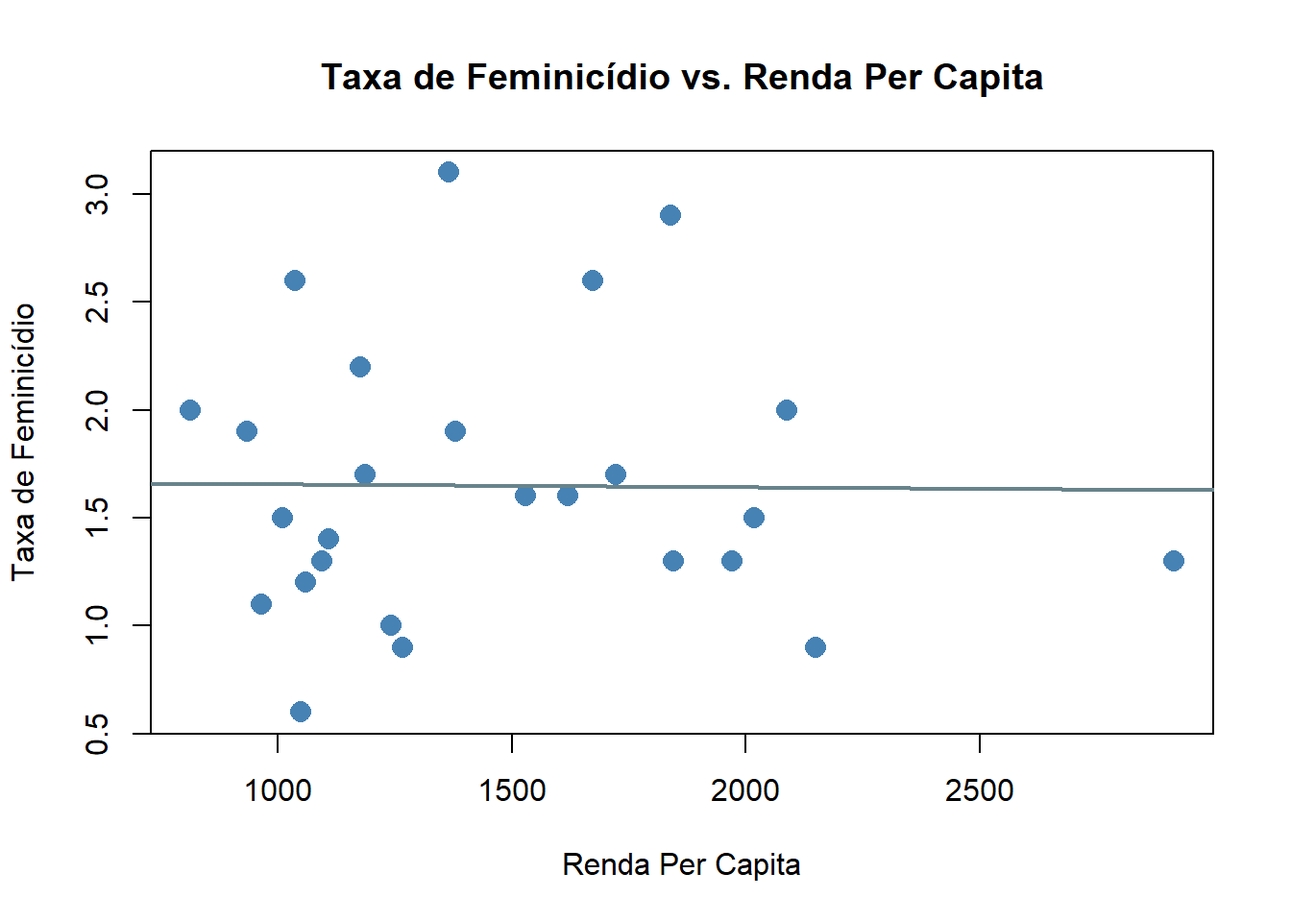
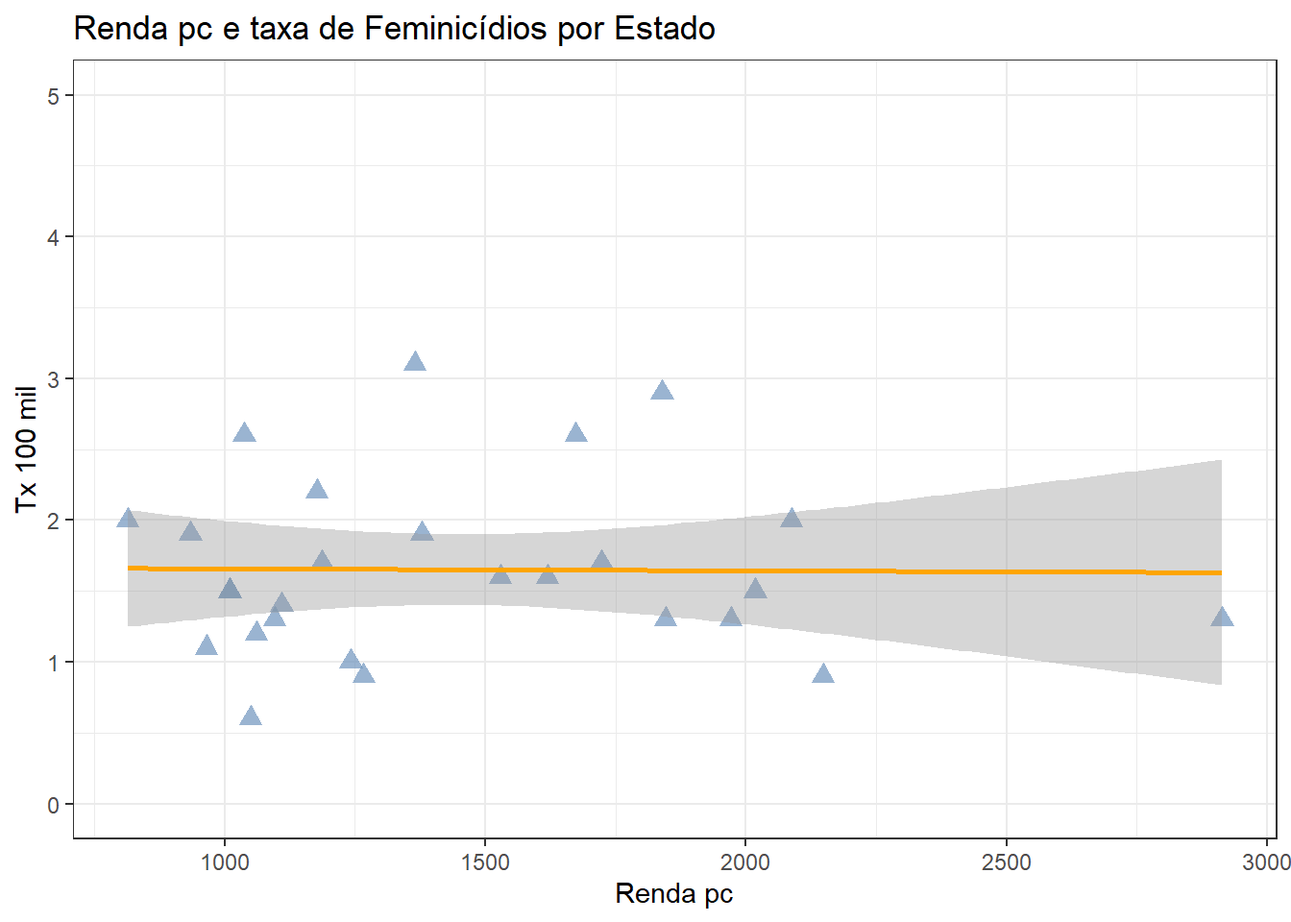
secao descritiva finalizada versao 1

diff --git a/docs/descritiva_v1.html b/docs/descritiva_v1.html
@@ -271,10 +271,7 @@ window.Quarto = {
   </ul></li>
   <li><a href="#medidas-de-posição" id="toc-medidas-de-posição" class="nav-link" data-scroll-target="#medidas-de-posição"><span class="header-section-number">6.3</span> Medidas de Posição:</a></li>
   <li><a href="#medidas-de-variabilidade" id="toc-medidas-de-variabilidade" class="nav-link" data-scroll-target="#medidas-de-variabilidade"><span class="header-section-number">6.4</span> Medidas de Variabilidade</a></li>
-  <li><a href="#medidas-de-associação" id="toc-medidas-de-associação" class="nav-link" data-scroll-target="#medidas-de-associação"><span class="header-section-number">6.5</span> Medidas de Associação</a>
-  <ul class="collapse">
-  <li><a href="#teste-de-hipótese" id="toc-teste-de-hipótese" class="nav-link" data-scroll-target="#teste-de-hipótese"><span class="header-section-number">6.5.1</span> Teste de Hipótese</a></li>
-  </ul></li>
+  <li><a href="#medidas-de-associação" id="toc-medidas-de-associação" class="nav-link" data-scroll-target="#medidas-de-associação"><span class="header-section-number">6.5</span> Medidas de Associação</a></li>
   </ul>
 </nav>
     </div>
@@ -1978,19 +1975,18 @@ Veja a Resposta
 <pre><code>[1] 0.3589068</code></pre>
 </div>
 </div>
+<section id="visualizando-a-associação" class="level4" data-number="6.5.0.1">
+<h4 data-number="6.5.0.1" class="anchored" data-anchor-id="visualizando-a-associação"><span class="header-section-number">6.5.0.1</span> Visualizando a Associação</h4>
 <p><strong>Scatter plot</strong></p>
-<p>O Scatter plot é conhecido como o gráfico de dispersão. Ele relaciona duas ou três variáveis, ou seja, plota <span class="math inline">\(X\)</span> contra <span class="math inline">\(Y\)</span>. Muito utilizado para ver o comportamento conjunto de duas séries. Observe que renda e a taxa de feminicídio não mostram um comportamento conjunto, estão dispersas.</p>
+<p>O Scatter plot é conhecido como o gráfico de dispersão. Ele relaciona duas ou três variáveis, ou seja, plota <span class="math inline">\(X\)</span> contra <span class="math inline">\(Y\)</span>. Muito utilizado para ver o comportamento conjunto de duas séries.</p>
+<p>Como já visto que renda pc e a taxa de feminicídio não mostram um comportamento conjunto:</p>
 <div class="cell">
-<div class="sourceCode cell-code" id="cb72"><pre class="sourceCode r code-with-copy"><code class="sourceCode r"><span id="cb72-1"><a href="#cb72-1" aria-hidden="true" tabindex="-1"></a><span class="do">##Dispersão entre renda per capita e a taxa de feminicidio</span></span>
-<span id="cb72-2"><a href="#cb72-2" aria-hidden="true" tabindex="-1"></a><span class="fu">plot</span>(final_fem_22<span class="sc">$</span>rendapc, final_fem_22<span class="sc">$</span>feminic_tx,</span>
-<span id="cb72-3"><a href="#cb72-3" aria-hidden="true" tabindex="-1"></a>     <span class="at">main =</span> <span class="st">"Taxa de Feminicídio vs. Renda Per Capita"</span>,</span>
-<span id="cb72-4"><a href="#cb72-4" aria-hidden="true" tabindex="-1"></a>     <span class="at">xlab =</span> <span class="st">"Renda Per Capita"</span>,</span>
-<span id="cb72-5"><a href="#cb72-5" aria-hidden="true" tabindex="-1"></a>     <span class="at">ylab =</span> <span class="st">"Taxa de Feminicídio"</span>,</span>
-<span id="cb72-6"><a href="#cb72-6" aria-hidden="true" tabindex="-1"></a>     <span class="at">col =</span> <span class="st">"steelblue"</span>,          <span class="co"># Cor dos pontos</span></span>
-<span id="cb72-7"><a href="#cb72-7" aria-hidden="true" tabindex="-1"></a>     <span class="at">pch =</span> <span class="dv">16</span>,              <span class="co"># Forma dos pontos (círculos sólidos)</span></span>
-<span id="cb72-8"><a href="#cb72-8" aria-hidden="true" tabindex="-1"></a>     <span class="at">cex =</span> <span class="fl">1.5</span>              <span class="co"># Tamanho dos pontos</span></span>
-<span id="cb72-9"><a href="#cb72-9" aria-hidden="true" tabindex="-1"></a>)</span>
-<span id="cb72-10"><a href="#cb72-10" aria-hidden="true" tabindex="-1"></a><span class="fu">abline</span>(<span class="fu">lm</span>(final_fem_22<span class="sc">$</span>feminic_tx<span class="sc">~</span>final_fem_22<span class="sc">$</span>rendapc), <span class="at">col=</span><span class="st">"lightblue4"</span>, <span class="at">lwd=</span><span class="dv">2</span>)</span></code><button title="Copy to Clipboard" class="code-copy-button"><i class="bi"></i></button></pre></div>
+<div class="sourceCode cell-code" id="cb72"><pre class="sourceCode r code-with-copy"><code class="sourceCode r"><span id="cb72-1"><a href="#cb72-1" aria-hidden="true" tabindex="-1"></a><span class="fu">ggplot</span>(<span class="at">data =</span> final_fem_22, <span class="fu">aes</span>(<span class="at">x =</span> rendapc, <span class="at">y =</span> feminic_tx))<span class="sc">+</span></span>
+<span id="cb72-2"><a href="#cb72-2" aria-hidden="true" tabindex="-1"></a><span class="fu">geom_point</span>(<span class="at">color=</span><span class="st">"#6e94bd"</span>, <span class="at">size=</span><span class="dv">3</span>, <span class="at">alpha=</span><span class="fl">0.7</span>,  <span class="at">shape=</span><span class="dv">17</span>) <span class="sc">+</span></span>
+<span id="cb72-3"><a href="#cb72-3" aria-hidden="true" tabindex="-1"></a>  <span class="fu">scale_y_continuous</span>(<span class="at">limits =</span> <span class="fu">c</span>(<span class="dv">0</span>, <span class="dv">5</span>)) <span class="sc">+</span></span>
+<span id="cb72-4"><a href="#cb72-4" aria-hidden="true" tabindex="-1"></a><span class="fu">geom_smooth</span>(<span class="at">method =</span> <span class="st">"lm"</span>, <span class="at">se=</span><span class="cn">TRUE</span> , <span class="at">color=</span><span class="st">"orange"</span>)<span class="sc">+</span></span>
+<span id="cb72-5"><a href="#cb72-5" aria-hidden="true" tabindex="-1"></a><span class="fu">labs</span>(<span class="at">title=</span><span class="st">"Renda pc e taxa de Feminicídios por Estado"</span>, <span class="at">x=</span><span class="st">"Renda pc"</span>, <span class="at">y=</span><span class="st">"Tx 100 mil"</span>)<span class="sc">+</span></span>
+<span id="cb72-6"><a href="#cb72-6" aria-hidden="true" tabindex="-1"></a><span class="fu">theme_bw</span>()</span></code><button title="Copy to Clipboard" class="code-copy-button"><i class="bi"></i></button></pre></div>
 <div class="cell-output-display">
 <div>
 <figure class="figure">
@@ -1999,18 +1995,25 @@ Veja a Resposta
 </div>
 </div>
 </div>
-<p>Ao observar a taxa de homicídio e a taxa de feminicídio, estados com maior taxa de homicídio tendem a ter maior taxa de feminicídio.</p>
+<p>Ao observar o homicídio absoluto e o feminicídio absoluto, estados com maiores números de homicídio tendem a ter maior número de feminicídios.</p>
 <div class="cell">
-<div class="sourceCode cell-code" id="cb73"><pre class="sourceCode r code-with-copy"><code class="sourceCode r"><span id="cb73-1"><a href="#cb73-1" aria-hidden="true" tabindex="-1"></a><span class="do">##Dispersão entre renda per capita e a taxa de feminicidio</span></span>
-<span id="cb73-2"><a href="#cb73-2" aria-hidden="true" tabindex="-1"></a><span class="fu">plot</span>(final_fem_22<span class="sc">$</span>homic_tx, final_fem_22<span class="sc">$</span>feminic_tx,</span>
-<span id="cb73-3"><a href="#cb73-3" aria-hidden="true" tabindex="-1"></a>     <span class="at">main =</span> <span class="st">"Taxa de Feminicídio vs. Taxa de Homicidios"</span>,</span>
-<span id="cb73-4"><a href="#cb73-4" aria-hidden="true" tabindex="-1"></a>     <span class="at">xlab =</span> <span class="st">"Taxa de Homicidio"</span>,</span>
-<span id="cb73-5"><a href="#cb73-5" aria-hidden="true" tabindex="-1"></a>     <span class="at">ylab =</span> <span class="st">"Taxa de Feminicídio"</span>,</span>
-<span id="cb73-6"><a href="#cb73-6" aria-hidden="true" tabindex="-1"></a>     <span class="at">col =</span> <span class="st">"lightgoldenrod3"</span>,          <span class="co"># Cor dos pontos</span></span>
-<span id="cb73-7"><a href="#cb73-7" aria-hidden="true" tabindex="-1"></a>     <span class="at">pch =</span> <span class="dv">16</span>,              <span class="co"># Forma dos pontos (círculos sólidos)</span></span>
-<span id="cb73-8"><a href="#cb73-8" aria-hidden="true" tabindex="-1"></a>     <span class="at">cex =</span> <span class="fl">1.5</span>              <span class="co"># Tamanho dos pontos</span></span>
-<span id="cb73-9"><a href="#cb73-9" aria-hidden="true" tabindex="-1"></a>)</span>
-<span id="cb73-10"><a href="#cb73-10" aria-hidden="true" tabindex="-1"></a><span class="fu">abline</span>(<span class="fu">lm</span>(final_fem_22<span class="sc">$</span>feminic_tx<span class="sc">~</span>final_fem_22<span class="sc">$</span>homic_tx), <span class="at">col=</span><span class="st">"lightblue4"</span>, <span class="at">lwd=</span><span class="dv">2</span>)</span></code><button title="Copy to Clipboard" class="code-copy-button"><i class="bi"></i></button></pre></div>
+<div class="sourceCode cell-code" id="cb73"><pre class="sourceCode r code-with-copy"><code class="sourceCode r"><span id="cb73-1"><a href="#cb73-1" aria-hidden="true" tabindex="-1"></a><span class="co"># Primeiro vou fzer a correlação</span></span>
+<span id="cb73-2"><a href="#cb73-2" aria-hidden="true" tabindex="-1"></a>correl1<span class="ot">&lt;-</span><span class="fu">cor</span>(final_fem_22<span class="sc">$</span>part_feminic, final_fem_22<span class="sc">$</span>homic_tx)</span>
+<span id="cb73-3"><a href="#cb73-3" aria-hidden="true" tabindex="-1"></a></span>
+<span id="cb73-4"><a href="#cb73-4" aria-hidden="true" tabindex="-1"></a><span class="co">#Depois montamos o Gráfico e anotamos a correlação no gráfico</span></span>
+<span id="cb73-5"><a href="#cb73-5" aria-hidden="true" tabindex="-1"></a><span class="fu">ggplot</span>(<span class="at">data =</span> final_fem_22, <span class="fu">aes</span>(<span class="at">x =</span> part_feminic, <span class="at">y =</span> homic_tx))<span class="sc">+</span></span>
+<span id="cb73-6"><a href="#cb73-6" aria-hidden="true" tabindex="-1"></a><span class="fu">geom_point</span>(<span class="at">color=</span><span class="st">"#6e94bd"</span>, <span class="at">size=</span><span class="dv">3</span>, <span class="at">alpha=</span><span class="fl">0.7</span>,  <span class="at">shape=</span><span class="dv">17</span>) <span class="sc">+</span></span>
+<span id="cb73-7"><a href="#cb73-7" aria-hidden="true" tabindex="-1"></a><span class="fu">geom_smooth</span>(<span class="at">method =</span> <span class="st">"lm"</span>, <span class="at">se=</span><span class="cn">TRUE</span> , <span class="at">color=</span><span class="st">"orange"</span>)<span class="sc">+</span></span>
+<span id="cb73-8"><a href="#cb73-8" aria-hidden="true" tabindex="-1"></a><span class="fu">labs</span>(<span class="at">title=</span><span class="st">"Taxa de Homicídio por 100 mil mulheres e a Participação do Feminicídio"</span>,</span>
+<span id="cb73-9"><a href="#cb73-9" aria-hidden="true" tabindex="-1"></a>     <span class="at">x=</span><span class="st">"Participação do Feminicídio"</span>, </span>
+<span id="cb73-10"><a href="#cb73-10" aria-hidden="true" tabindex="-1"></a>     <span class="at">y=</span><span class="st">"Taxa de Homicídio"</span>)<span class="sc">+</span></span>
+<span id="cb73-11"><a href="#cb73-11" aria-hidden="true" tabindex="-1"></a><span class="fu">annotate</span>(</span>
+<span id="cb73-12"><a href="#cb73-12" aria-hidden="true" tabindex="-1"></a>    <span class="st">"text"</span>, </span>
+<span id="cb73-13"><a href="#cb73-13" aria-hidden="true" tabindex="-1"></a>    <span class="at">x=</span><span class="dv">40</span>, <span class="at">y=</span><span class="dv">9</span>,</span>
+<span id="cb73-14"><a href="#cb73-14" aria-hidden="true" tabindex="-1"></a>    <span class="at">label =</span> <span class="fu">paste</span>(<span class="st">"Correlação: "</span>, <span class="fu">round</span>(correl1, <span class="dv">2</span>)), </span>
+<span id="cb73-15"><a href="#cb73-15" aria-hidden="true" tabindex="-1"></a>    <span class="at">color =</span> <span class="st">"#6e94bd"</span>, <span class="at">size =</span> <span class="dv">4</span>, <span class="at">hjust =</span> <span class="dv">0</span></span>
+<span id="cb73-16"><a href="#cb73-16" aria-hidden="true" tabindex="-1"></a>  ) <span class="sc">+</span></span>
+<span id="cb73-17"><a href="#cb73-17" aria-hidden="true" tabindex="-1"></a>  <span class="fu">theme_bw</span>()</span></code><button title="Copy to Clipboard" class="code-copy-button"><i class="bi"></i></button></pre></div>
 <div class="cell-output-display">
 <div>
 <figure class="figure">
@@ -2031,45 +2034,30 @@ Veja a Resposta
 </div>
 </div>
 </div>
-<section id="teste-de-hipótese" class="level3" data-number="6.5.1">
-<h3 data-number="6.5.1" class="anchored" data-anchor-id="teste-de-hipótese"><span class="header-section-number">6.5.1</span> Teste de Hipótese</h3>
-<p>Vamos testar a hipótese de que as taxas de feminicídio são iguais entre as regiões norte, nordeste e centro oeste e as regiões sul e sudeste. Vamos permitir que as variâncias sejam diferentes entre as duas regiões</p>
-<p><span class="math display">\[H_0: \mu_{N-NE-CO} = \mu_{S-SD}\]</span> <span class="math display">\[H_1: \mu_{N-NE-CO} \neq \mu_{S-SD}\]</span></p>
 <div class="cell">
-<div class="sourceCode cell-code" id="cb75"><pre class="sourceCode r code-with-copy"><code class="sourceCode r"><span id="cb75-1"><a href="#cb75-1" aria-hidden="true" tabindex="-1"></a><span class="fu">t.test</span>(feminic_tx<span class="sc">~</span>N_NE_CO, <span class="at">data=</span>final_fem_22) </span></code><button title="Copy to Clipboard" class="code-copy-button"><i class="bi"></i></button></pre></div>
-<div class="cell-output cell-output-stdout">
-<pre><code>
-    Welch Two Sample t-test
-
-data:  feminic_tx by N_NE_CO
-t = -1.2049, df = 20.949, p-value = 0.2417
-alternative hypothesis: true difference in means between group 0 and group 1 is not equal to 0
-95 percent confidence interval:
- -0.6640345  0.1768916
-sample estimates:
-mean in group 0 mean in group 1 
-       1.471429        1.715000 </code></pre>
+<div class="sourceCode cell-code" id="cb75"><pre class="sourceCode r code-with-copy"><code class="sourceCode r"><span id="cb75-1"><a href="#cb75-1" aria-hidden="true" tabindex="-1"></a><span class="co">#install.packages("ggcorrplot")</span></span>
+<span id="cb75-2"><a href="#cb75-2" aria-hidden="true" tabindex="-1"></a><span class="fu">library</span>(ggcorrplot)</span>
+<span id="cb75-3"><a href="#cb75-3" aria-hidden="true" tabindex="-1"></a>correl2<span class="ot">&lt;-</span> <span class="fu">round</span>(<span class="fu">cor</span>(final_fem_22[<span class="fu">c</span>(<span class="dv">5</span><span class="sc">:</span><span class="dv">9</span>, <span class="dv">12</span>)]),<span class="dv">2</span>)</span>
+<span id="cb75-4"><a href="#cb75-4" aria-hidden="true" tabindex="-1"></a><span class="fu">ggcorrplot</span>(correl2, <span class="at">hc.order =</span> <span class="cn">TRUE</span>, <span class="at">type =</span> <span class="st">"lower"</span>,        <span class="co"># Matriz de correlação, coloca de forma ordenada e inferior</span></span>
+<span id="cb75-5"><a href="#cb75-5" aria-hidden="true" tabindex="-1"></a>           <span class="at">lab =</span> <span class="cn">TRUE</span>, <span class="at">lab_size =</span> <span class="dv">3</span>, <span class="at">lab_col =</span> <span class="st">"#616161"</span>,   <span class="co">#  mostra os valores tamanho 4</span></span>
+<span id="cb75-6"><a href="#cb75-6" aria-hidden="true" tabindex="-1"></a>           <span class="at">outline.col =</span> <span class="st">"white"</span>,</span>
+<span id="cb75-7"><a href="#cb75-7" aria-hidden="true" tabindex="-1"></a>           <span class="at">ggtheme =</span> ggplot2<span class="sc">::</span>theme_minimal,</span>
+<span id="cb75-8"><a href="#cb75-8" aria-hidden="true" tabindex="-1"></a>           <span class="at">colors =</span> <span class="fu">c</span>(<span class="st">"#6D9EC1"</span>, <span class="st">"white"</span>, <span class="st">"#c2986f"</span>))<span class="sc">+</span>     <span class="co"># cores utilizadas</span></span>
+<span id="cb75-9"><a href="#cb75-9" aria-hidden="true" tabindex="-1"></a><span class="co"># Colocando nomes  </span></span>
+<span id="cb75-10"><a href="#cb75-10" aria-hidden="true" tabindex="-1"></a>  <span class="fu">labs</span>(<span class="at">title =</span> <span class="st">"Correlação entre as Diversas Variáveis"</span>)<span class="sc">+</span>   <span class="co"># Título</span></span>
+<span id="cb75-11"><a href="#cb75-11" aria-hidden="true" tabindex="-1"></a><span class="co">#Trocando os nomes das variáveis</span></span>
+<span id="cb75-12"><a href="#cb75-12" aria-hidden="true" tabindex="-1"></a>  <span class="fu">scale_y_discrete</span>(<span class="at">labels =</span> <span class="fu">c</span>(<span class="st">"Feminic. Abs."</span>, <span class="st">"Part. Feminic."</span>, <span class="st">"Renda pc"</span>,  <span class="co"># Nomes no eixo X</span></span>
+<span id="cb75-13"><a href="#cb75-13" aria-hidden="true" tabindex="-1"></a>                              <span class="st">"Taxa Homic."</span>, <span class="st">"Homic. Abs."</span>)) <span class="sc">+</span>  </span>
+<span id="cb75-14"><a href="#cb75-14" aria-hidden="true" tabindex="-1"></a>  <span class="fu">scale_x_discrete</span>(<span class="at">labels =</span> <span class="fu">c</span>(<span class="st">"Part. Feminic."</span>, <span class="st">"Renda pc"</span>, </span>
+<span id="cb75-15"><a href="#cb75-15" aria-hidden="true" tabindex="-1"></a>                              <span class="st">"Taxa Homic."</span>, <span class="st">"Homic. Abs."</span>, <span class="st">"Taxa Feminic."</span>))  <span class="co"># Nomes no eixo Y</span></span></code><button title="Copy to Clipboard" class="code-copy-button"><i class="bi"></i></button></pre></div>
+<div class="cell-output-display">
+<div>
+<figure class="figure">
+<p><img src="descritiva_v1_files/figure-html/unnamed-chunk-49-1.png" class="img-fluid figure-img" width="672"></p>
+</figure>
 </div>
 </div>
-<p>O teste mostra que não rejeitamos a hipótese nula de que as duas regiões possuem a mesma média de taxa de feminicídio.</p>
-<p>Vejamos agora a renda per capita:</p>
-<div class="cell">
-<div class="sourceCode cell-code" id="cb77"><pre class="sourceCode r code-with-copy"><code class="sourceCode r"><span id="cb77-1"><a href="#cb77-1" aria-hidden="true" tabindex="-1"></a><span class="fu">t.test</span>(rendapc<span class="sc">~</span>N_NE_CO, <span class="at">data=</span>final_fem_22) </span></code><button title="Copy to Clipboard" class="code-copy-button"><i class="bi"></i></button></pre></div>
-<div class="cell-output cell-output-stdout">
-<pre><code>
-    Welch Two Sample t-test
-
-data:  rendapc by N_NE_CO
-t = 4.6401, df = 22.301, p-value = 0.0001225
-alternative hypothesis: true difference in means between group 0 and group 1 is not equal to 0
-95 percent confidence interval:
- 340.6685 890.5172
-sample estimates:
-mean in group 0 mean in group 1 
-       1903.143        1287.550 </code></pre>
 </div>
-</div>
-<p>Observa-se que rejeita-se a hipótese nula, e há evidências de que a média da renda per capita entre as duas regiões são diferentes.</p>
 
 
 </section>

diff --git a/docs/estatistica.html b/docs/estatistica.html
@@ -67,7 +67,7 @@ pre > code.sourceCode > span > a:first-child::before { text-decoration: underlin
 <script src="site_libs/quarto-search/quarto-search.js"></script>
 <meta name="quarto:offset" content="./">
 <link href="./lineares.html" rel="next">
-<link href="./descritiva.html" rel="prev">
+<link href="./descritiva_v1.html" rel="prev">
 <script src="site_libs/quarto-html/quarto.js"></script>
 <script src="site_libs/quarto-html/popper.min.js"></script>
 <script src="site_libs/quarto-html/tippy.umd.min.js"></script>
@@ -231,7 +231,7 @@ window.Quarto = {
 </li>
         <li class="sidebar-item">
   <div class="sidebar-item-container"> 
-  <a href="./descritiva.html" class="sidebar-item-text sidebar-link">
+  <a href="./descritiva_v1.html" class="sidebar-item-text sidebar-link">
  <span class="menu-text"><span class="chapter-number">6</span>&nbsp; <span class="chapter-title">Análise Descritiva</span></span></a>
   </div>
 </li>
@@ -283,6 +283,7 @@ window.Quarto = {
   <li><a href="#teste-de-hipotese-parâmetros." id="toc-teste-de-hipotese-parâmetros." class="nav-link" data-scroll-target="#teste-de-hipotese-parâmetros."><span class="header-section-number">7.5</span> Teste de Hipotese (Parâmetros).</a>
   <ul class="collapse">
   <li><a href="#introdução-ao-teste-de-hipótese-de-duas-populações-de-médias" id="toc-introdução-ao-teste-de-hipótese-de-duas-populações-de-médias" class="nav-link" data-scroll-target="#introdução-ao-teste-de-hipótese-de-duas-populações-de-médias"><span class="header-section-number">7.5.1</span> Introdução ao Teste de Hipótese de Duas Populações (de Médias)</a></li>
+  <li><a href="#aplicação-teste-de-hipótese" id="toc-aplicação-teste-de-hipótese" class="nav-link" data-scroll-target="#aplicação-teste-de-hipótese"><span class="header-section-number">7.5.2</span> Aplicação Teste de Hipótese</a></li>
   </ul></li>
   </ul>
 </nav>
@@ -858,6 +859,48 @@ População
 <p>Após calcular a estatística de teste, comparamos o valor observado da estatística com um valor crítico ou calculamos um valor p associado. O valor p é a probabilidade de obter uma estatística de teste tão extrema quanto a observada, assumindo que a hipótese nula seja verdadeira. Com base no valor p (geralmente comparado com um nível de significância pré-definido, como 0,05), tomamos uma decisão de rejeitar ou não rejeitar a hipótese nula.</p>
 <p><strong>Conclusão do Teste</strong></p>
 <p>A conclusão do teste de hipótese de duas populações nos permite determinar se há evidências estatísticas suficientes para rejeitar a hipótese nula em favor da hipótese alternativa. Essa decisão tem implicações importantes em áreas como pesquisa científica, análise de dados e tomada de decisões em negócios e saúde.</p>
+</section>
+<section id="aplicação-teste-de-hipótese" class="level3" data-number="7.5.2">
+<h3 data-number="7.5.2" class="anchored" data-anchor-id="aplicação-teste-de-hipótese"><span class="header-section-number">7.5.2</span> Aplicação Teste de Hipótese</h3>
+<p>Vamos testar a hipótese de que as taxas de feminicídio são iguais entre as regiões norte, nordeste e centro oeste e as regiões sul e sudeste. Vamos permitir que as variâncias sejam diferentes entre as duas regiões</p>
+<p><span class="math display">\[H_0: \mu_{N-NE-CO} = \mu_{S-SD}\]</span> <span class="math display">\[H_1: \mu_{N-NE-CO} \neq \mu_{S-SD}\]</span></p>
+<div class="cell">
+<div class="sourceCode cell-code" id="cb6"><pre class="sourceCode r code-with-copy"><code class="sourceCode r"><span id="cb6-1"><a href="#cb6-1" aria-hidden="true" tabindex="-1"></a><span class="co">#carregando o pacote para ler arquivos em excel</span></span>
+<span id="cb6-2"><a href="#cb6-2" aria-hidden="true" tabindex="-1"></a><span class="fu">load</span>(<span class="st">"C:/Users/Alexandre_Nicolella/Aulas/FEA-RP/Jurimetria/jurimetria/final_fem_22.Rdata"</span>)</span>
+<span id="cb6-3"><a href="#cb6-3" aria-hidden="true" tabindex="-1"></a><span class="fu">t.test</span>(feminic_tx<span class="sc">~</span>N_NE_CO, <span class="at">data=</span>final_fem_22) </span></code><button title="Copy to Clipboard" class="code-copy-button"><i class="bi"></i></button></pre></div>
+<div class="cell-output cell-output-stdout">
+<pre><code>
+    Welch Two Sample t-test
+
+data:  feminic_tx by N_NE_CO
+t = -1.2049, df = 20.949, p-value = 0.2417
+alternative hypothesis: true difference in means between group 0 and group 1 is not equal to 0
+95 percent confidence interval:
+ -0.6640345  0.1768916
+sample estimates:
+mean in group 0 mean in group 1 
+       1.471429        1.715000 </code></pre>
+</div>
+</div>
+<p>O teste mostra que não rejeitamos a hipótese nula de que as duas regiões possuem a mesma média de taxa de feminicídio.</p>
+<p>Vejamos agora a renda per capita:</p>
+<div class="cell">
+<div class="sourceCode cell-code" id="cb8"><pre class="sourceCode r code-with-copy"><code class="sourceCode r"><span id="cb8-1"><a href="#cb8-1" aria-hidden="true" tabindex="-1"></a><span class="fu">t.test</span>(rendapc<span class="sc">~</span>N_NE_CO, <span class="at">data=</span>final_fem_22) </span></code><button title="Copy to Clipboard" class="code-copy-button"><i class="bi"></i></button></pre></div>
+<div class="cell-output cell-output-stdout">
+<pre><code>
+    Welch Two Sample t-test
+
+data:  rendapc by N_NE_CO
+t = 4.6401, df = 22.301, p-value = 0.0001225
+alternative hypothesis: true difference in means between group 0 and group 1 is not equal to 0
+95 percent confidence interval:
+ 340.6685 890.5172
+sample estimates:
+mean in group 0 mean in group 1 
+       1903.143        1287.550 </code></pre>
+</div>
+</div>
+<p>Observa-se que rejeita-se a hipótese nula, e há evidências de que a média da renda per capita entre as duas regiões são diferentes.</p>
 
 
 </section>
@@ -1286,7 +1329,7 @@ window.document.addEventListener("DOMContentLoaded", function (event) {
 </script>
 <nav class="page-navigation">
   <div class="nav-page nav-page-previous">
-      <a href="./descritiva.html" class="pagination-link" aria-label="Análise Descritiva">
+      <a href="./descritiva_v1.html" class="pagination-link" aria-label="Análise Descritiva">
         <i class="bi bi-arrow-left-short"></i> <span class="nav-page-text"><span class="chapter-number">6</span>&nbsp; <span class="chapter-title">Análise Descritiva</span></span>
       </a>          
   </div>

diff --git a/docs/dplyr.html b/docs/dplyr.html
@@ -66,7 +66,7 @@ pre > code.sourceCode > span > a:first-child::before { text-decoration: underlin
 <script src="site_libs/quarto-search/fuse.min.js"></script>
 <script src="site_libs/quarto-search/quarto-search.js"></script>
 <meta name="quarto:offset" content="./">
-<link href="./descritiva.html" rel="next">
+<link href="./descritiva_v1.html" rel="next">
 <link href="./googledrive.html" rel="prev">
 <script src="site_libs/quarto-html/quarto.js"></script>
 <script src="site_libs/quarto-html/popper.min.js"></script>
@@ -199,7 +199,7 @@ pre > code.sourceCode > span > a:first-child::before { text-decoration: underlin
 </li>
         <li class="sidebar-item">
   <div class="sidebar-item-container"> 
-  <a href="./descritiva.html" class="sidebar-item-text sidebar-link">
+  <a href="./descritiva_v1.html" class="sidebar-item-text sidebar-link">
  <span class="menu-text"><span class="chapter-number">6</span>&nbsp; <span class="chapter-title">Análise Descritiva</span></span></a>
   </div>
 </li>
@@ -928,7 +928,7 @@ window.document.addEventListener("DOMContentLoaded", function (event) {
       </a>          
   </div>
   <div class="nav-page nav-page-next">
-      <a href="./descritiva.html" class="pagination-link" aria-label="Análise Descritiva">
+      <a href="./descritiva_v1.html" class="pagination-link" aria-label="Análise Descritiva">
         <span class="nav-page-text"><span class="chapter-number">6</span>&nbsp; <span class="chapter-title">Análise Descritiva</span></span> <i class="bi bi-arrow-right-short"></i>
       </a>
   </div>
